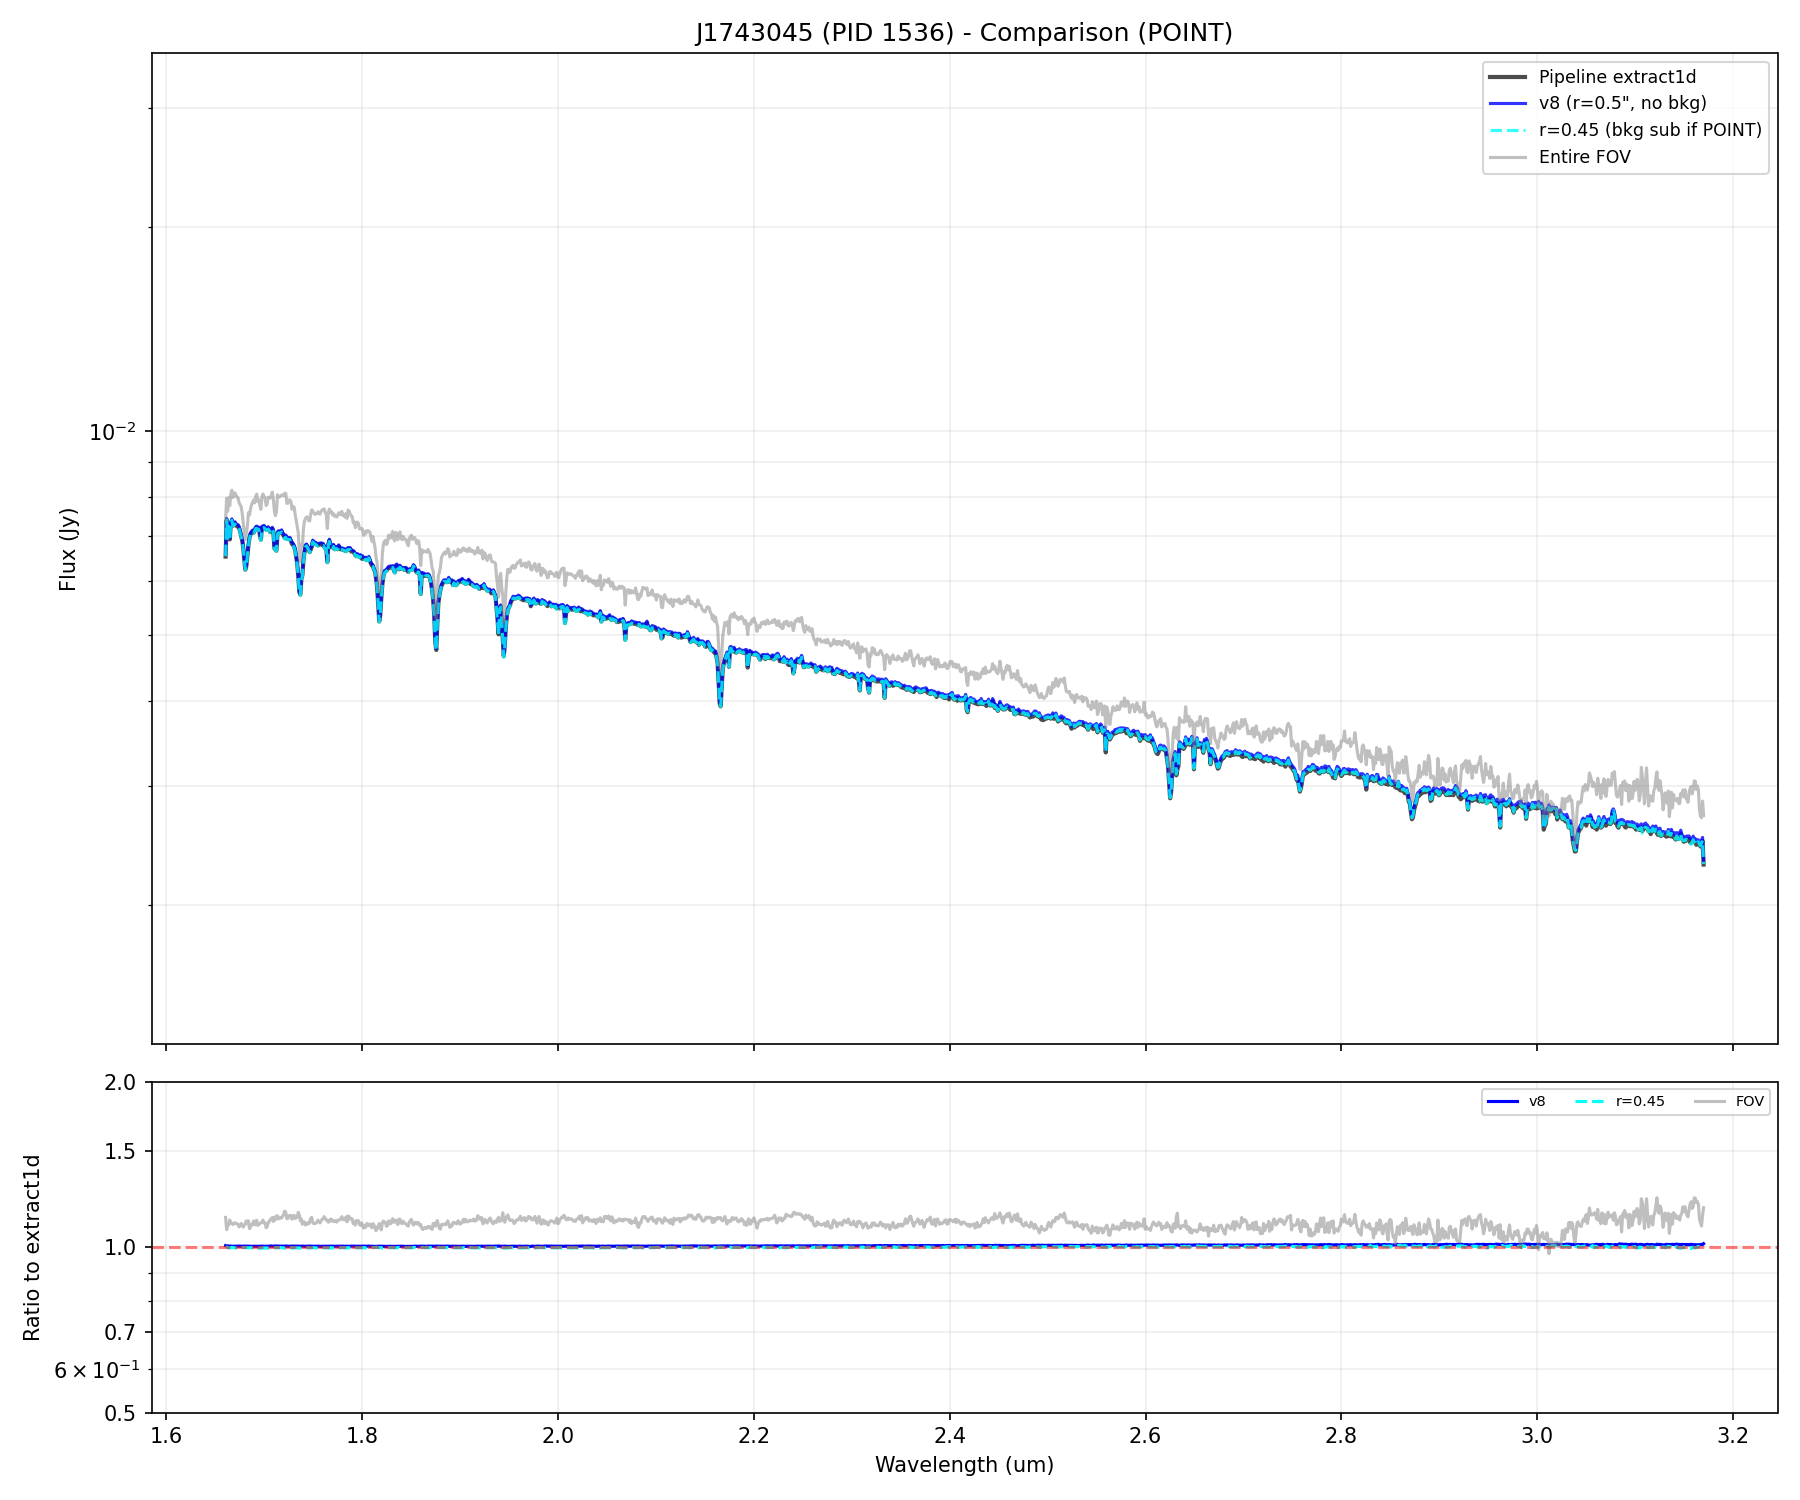
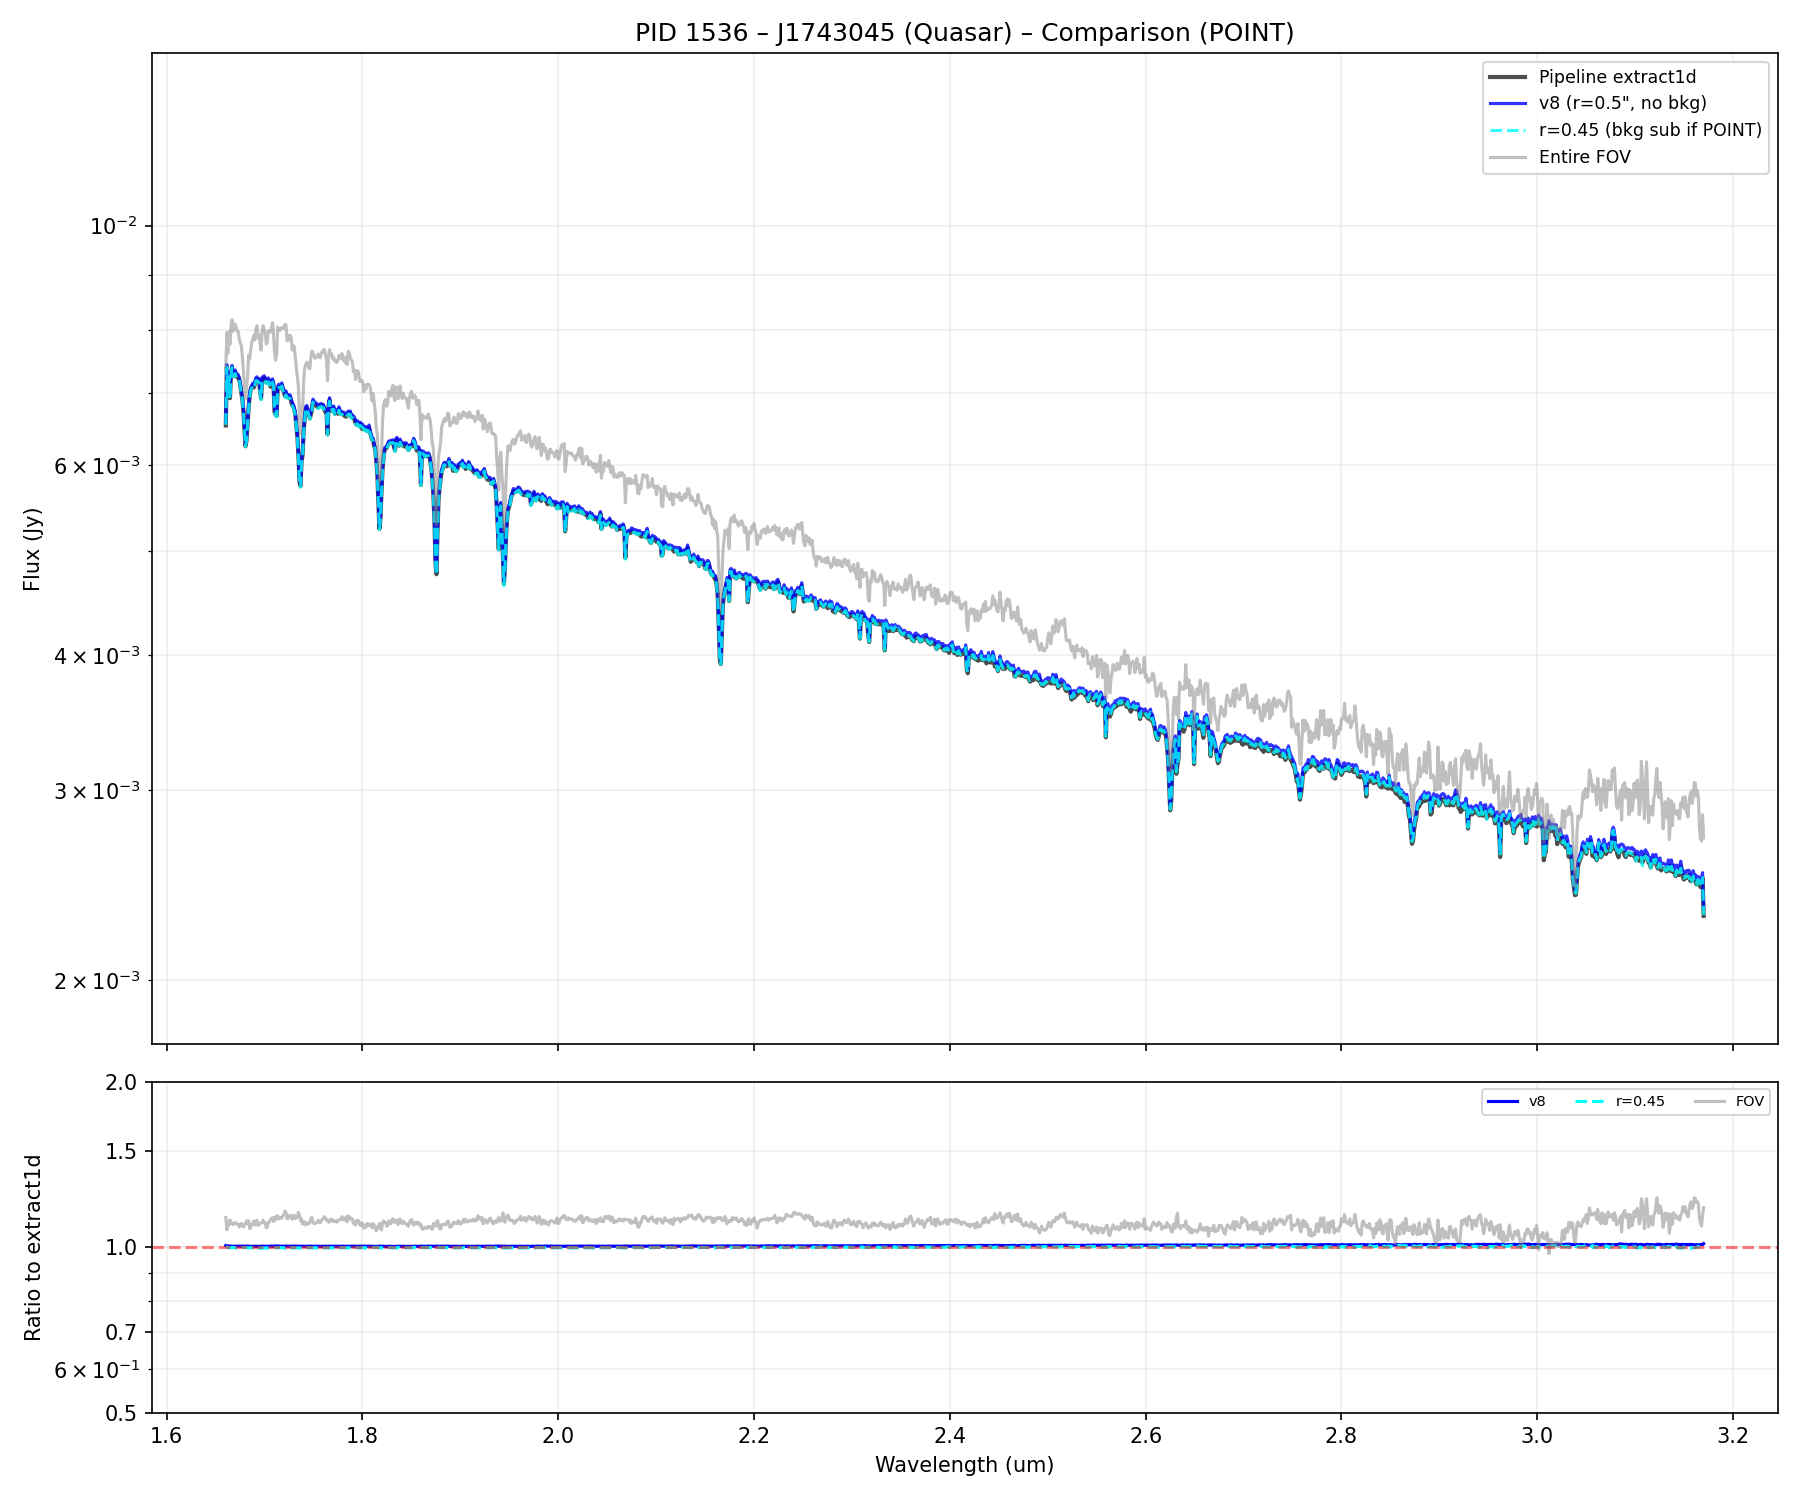
Restructured IFU baseline report with target descriptions and tightened scaling (dual-centering diagnostic).

diff --git a/reports/v8/scripts/plot_ifu_v8_full_spectra.py b/reports/v8/scripts/plot_ifu_v8_full_spectra.py
@@ -43,6 +43,19 @@ def load_calspec_jy(fname):
     fnu = flam * wl_a**2 / C_ANG_S * 1e23
     return interp1d(wl_a / 1e4, fnu, bounds_error=False, fill_value=np.nan)
 
+def load_coeffs(grating):
+    fits_path = f'{COEFFS_DIR}/calib_v7_ifu_{grating.lower()}_all.fits'
+    if not os.path.exists(fits_path): return None, None, None
+    with fits.open(fits_path) as h:
+        d = h[1].data
+        wl, k, a, b = d['WAVELENGTH'], d['K'], d['ALPHA'], d['BETA']
+        k = np.where(np.isfinite(k), k, 1.0)
+        a = np.where(np.isfinite(a), a, 0.0)
+        b = np.where(np.isfinite(b), b, 0.0)
+        return interp1d(wl, k, bounds_error=False, fill_value=1.0), \
+               interp1d(wl, a, bounds_error=False, fill_value=0.0), \
+               interp1d(wl, b, bounds_error=False, fill_value=0.0)
+
 def extract_05_radius(s3d_file):
     try:
         with fits.open(s3d_file) as hdul:
@@ -73,8 +86,27 @@ def plot_full_spectra(target):
     fig, ax = plt.subplots(figsize=(18, 9))
     fig.suptitle(f'{name} — PID {pid} — IFU wavext v8', fontsize=16)
 
+    # Set base Y-axis to log early
+    ax.set_yscale('log')
+
+    # Preliminary Y-limits based on truth model
+    y_min_target, y_max_target = 1e-3, 10.0 # Wide defaults
+    if f_ref:
+        w_range_pre = np.linspace(0.6, 5.6, 1000)
+        f_truth_pre = f_ref(w_range_pre)
+        f_mask_pre = f_truth_pre[np.isfinite(f_truth_pre) & (f_truth_pre > 0)]
+        if len(f_mask_pre) > 0:
+            y_min_target = np.nanmin(f_mask_pre) * 0.5
+            y_max_target = np.nanmax(f_mask_pre) * 1.5
+            ax.set_ylim(y_min_target, y_max_target)
+
     plotted_labels = set()
     gratings = ['G140M', 'G235M', 'G395M']
+    
+    coeffs = {
+        'G140M': load_coeffs('G140M'),
+        'G235M': load_coeffs('G235M'),
+    }
 
     for g_name in gratings:
         files = glob.glob(f"{target['dir']}/*{g_name.lower()}*x1d.fits")
@@ -115,6 +147,31 @@ def plot_full_spectra(target):
             ax.plot(w, f_val, '.', markersize=1, color=base_color, alpha=0.6, zorder=2)
             ax.plot(w, f_val, color=base_color, lw=0.5, alpha=0.2, zorder=2)
         
+        # Correction logic
+        if g_name in ['G140M', 'G235M'] and f_ref:
+            ki, ai, bi = coeffs[g_name]
+            if ki is not None:
+                lo = 1.90 if g_name == 'G140M' else 3.15 
+                mask = w >= lo
+                if mask.any():
+                    w_e, f_e = w[mask], f_val[mask]
+                    f_c2, f_c3 = f_ref(w_e/2), f_ref(w_e/3)
+                    f_c2 = np.where(np.isfinite(f_c2), f_c2, 0)
+                    f_c3 = np.where(np.isfinite(f_c3), f_c3, 0)
+                    k_vals, a_vals, b_vals = ki(w_e), ai(w_e), bi(w_e)
+                    f_corr = (f_e - a_vals*f_c2 - b_vals*f_c3) / k_vals
+                    
+                    # Safety clipping to established Y-axis limits
+                    f_e_fill = np.clip(f_e, y_min_target, y_max_target * 10)
+                    f_corr_fill = np.clip(f_corr, y_min_target, y_max_target * 10)
+
+                    ax.plot(w_e, f_corr, color='magenta', lw=0.5, alpha=0.9, zorder=10)
+                    ax.fill_between(w_e, f_e_fill, f_corr_fill, color='magenta', alpha=0.1, zorder=5)
+                    if f"Rec {g_name}" not in plotted_labels:
+                        mid_e = len(w_e) // 2
+                        ax.text(w_e[mid_e], f_corr[mid_e] * 2.5, f"{g_name} Corr", color='magenta', fontsize=14, ha='center', weight='bold')
+                        plotted_labels.add(f"Rec {g_name}")
+        
         # Add Label at Mid-point
         if g_name not in plotted_labels and len(w) > 50:
             mid_idx = len(w) // 2
@@ -139,14 +196,10 @@ def plot_full_spectra(target):
         ax.text(3.7, f_ref(3.7/3) * 1.1, '3rd order (λ/3)', color='0.70', fontsize=14, 
                 alpha=0.7, weight='bold', zorder=20)
 
-    ax.set_yscale('log')
     ax.set_xlim(0.6, 5.6)
     
-    if f_ref:
-        f_mask = f_truth[np.isfinite(f_truth) & (f_truth > 0)]
-        if len(f_mask) > 0:
-            ax.set_ylim(np.min(f_mask)*0.5, np.max(f_mask)*3.0)
-    else:
+    # Auto-scale Y only if no truth was provided
+    if not f_ref:
         ax.autoscale(axis='y', tight=False)
 
     ax.set_xlabel('Wavelength [µm]', fontsize=14)

diff --git a/reports/v8/ifu_v8/extractions_all_ifu_v8/extractions_all_ifu_v8.py b/reports/v8/ifu_v8/extractions_all_ifu_v8/extractions_all_ifu_v8.py
@@ -18,12 +18,12 @@ PIPE_BKG_IN = 1.0
 PIPE_BKG_OUT = 1.2
 
 TARGETS = [
-    {'pid': '1536', 'name': 'J1743045', 's3d': f'{BASE_IFU}/PID1536_J1743045/stage3/f170lp_g235m-f170lp_s3d.fits'},
-    {'pid': '1537', 'name': 'G191-B2B', 's3d': f'{BASE_IFU}/PID1537_G191-B2B/stage3/f170lp_g235m-f170lp_s3d.fits'},
-    {'pid': '1538', 'name': 'P330E', 's3d': f'{BASE_IFU}/PID1538_P330E/stage3/f170lp_g235m-f170lp_s3d.fits'},
-    {'pid': '2186', 'name': 'UGC-5101', 's3d': f'{BASE_FS}/PID2186_UGC-5101/stage3_ext/g235m_f170lp_g235m-f170lp_s3d.fits', 'is_science': True},
-    {'pid': '2654', 'name': 'SDSSJ0841', 's3d': f'{BASE_FS}/PID2654_SDSSJ0841/stage3_ext/g140m_f100lp_g140m-f100lp_s3d.fits', 'is_science': True},
-    {'pid': '6645', 'name': 'P330E-C3', 's3d': f'{BASE_IFU}/PID6645_P330E-C3/stage3/f170lp_g235m-f170lp_s3d.fits'}
+    {'pid': '1536', 'name': 'J1743045', 'desc': 'Quasar', 's3d': f'{BASE_IFU}/PID1536_J1743045/stage3/f170lp_g235m-f170lp_s3d.fits'},
+    {'pid': '1537', 'name': 'G191-B2B', 'desc': 'DA White Dwarf', 's3d': f'{BASE_IFU}/PID1537_G191-B2B/stage3/f170lp_g235m-f170lp_s3d.fits'},
+    {'pid': '1538', 'name': 'P330E', 'desc': 'G-type Solar Analog', 's3d': f'{BASE_IFU}/PID1538_P330E/stage3/f170lp_g235m-f170lp_s3d.fits'},
+    {'pid': '2186', 'name': 'UGC-5101', 'desc': 'ULIRG', 's3d': f'{BASE_FS}/PID2186_UGC-5101/stage3_ext/g235m_f170lp_g235m-f170lp_s3d.fits', 'is_science': True},
+    {'pid': '2654', 'name': 'SDSSJ0841', 'desc': 'Quasar', 's3d': f'{BASE_FS}/PID2654_SDSSJ0841/stage3_ext/g140m_f100lp_g140m-f100lp_s3d.fits', 'is_science': True},
+    {'pid': '6645', 'name': 'P330E-C3', 'desc': 'Solar Analog (Offset Visit)', 's3d': f'{BASE_IFU}/PID6645_P330E-C3/stage3/f170lp_g235m-f170lp_s3d.fits'}
 ]
 
 def perform_extractions(target):
@@ -134,7 +134,7 @@ def plot_target(target, results):
     ax1.plot(wl, results['spec_fov'], label='Entire FOV', alpha=0.5, color='gray')
     
     ax1.set_yscale('log')
-    ax1.set_title(f"{target['name']} (PID {target['pid']}) - Comparison ({results['srctype']})")
+    ax1.set_title(f"PID {target['pid']} – {target['name']} ({target['desc']}) – Comparison ({results['srctype']})")
     ax1.set_ylabel("Flux (Jy)")
     ax1.legend(loc='upper right', fontsize='small')
     ax1.grid(True, which='both', alpha=0.2)
@@ -146,9 +146,13 @@ def plot_target(target, results):
     
     if np.any(valid_all):
         all_fluxes = np.concatenate([results['spec_05'], results['spec_x1d']])
-        y_min = np.percentile(all_fluxes[valid_all], 1) * 0.5
-        y_max = np.percentile(all_fluxes[valid_all], 99) * 5.0
+        y_min = np.percentile(all_fluxes[valid_all], 1) * 0.7
+        y_max = np.percentile(all_fluxes[valid_all], 99) * 2.0
         ax1.set_ylim(y_min, y_max)
+    
+    # Correction for P330E-C3 huge offset visualization
+    if target['pid'] == '6645':
+        ax1.set_ylim(1e-5, 0.1)
     
     f_old = interp1d(results['wl_old'], results['spec_x1d'], bounds_error=False, fill_value=np.nan)
     ref_flux = f_old(wl)
@@ -223,6 +227,7 @@ def run_all():
             summary_data.append({
                 'pid': target['pid'],
                 'name': target['name'],
+                'desc': target['desc'],
                 'srctype': results['srctype'],
                 'med_flux_v8': med_05,
                 'ratio_v8_to_x1d': ratio_05
@@ -246,12 +251,12 @@ def run_all():
         f.write("\n\n")
         
         for target in TARGETS:
-            f.write(f"## {target['name']} (PID {target['pid']})\n\n")
-            f.write(f"### Spectra\n")
-            f.write(f"![Comparison](extraction_all_{target['pid']}.png)\n\n")
+            f.write(f"## PID {target['pid']} – {target['name']} ({target['desc']})\n\n")
             f.write(f"### Slices & Apertures\n")
             f.write(f"**Red Solid**: v8 (peak-centered, 0.5\") | **Cyan Dashed**: Pipeline (pointing-centered, 0.45\")\n\n")
             f.write(f"![Slices](slices_{target['pid']}.png)\n\n")
+            f.write(f"### Spectra\n")
+            f.write(f"![Comparison](extraction_all_{target['pid']}.png)\n\n")
             f.write("---\n\n")
 
 if __name__ == "__main__":

diff --git a/reports/v8/scripts/plot_fs_v8_full_spectra.py b/reports/v8/scripts/plot_fs_v8_full_spectra.py
@@ -131,10 +131,11 @@ def plot_full_spectra(pid, src):
                     
                     f_corr = (f_e - a_vals*f_c2 - b_vals*f_c3) / k_vals
                     
-                    ax.plot(w_e, f_corr, color='magenta', lw=1.5, alpha=0.9, zorder=10)
+                    ax.plot(w_e, f_corr, color='magenta', lw=0.5, alpha=0.9, zorder=10)
+                    ax.fill_between(w_e, f_e, f_corr, color='magenta', alpha=0.1, zorder=5)
                     if f"Rec {grating}" not in plotted_labels:
                         mid_e = len(w_e) // 2
-                        ax.text(w_e[mid_e], f_corr[mid_e] * 2.5, f"{grating} v8 Corr", color='magenta', fontsize=14, ha='center', weight='bold')
+                        ax.text(w_e[mid_e], f_corr[mid_e] * 2.5, f"{grating} Corr", color='magenta', fontsize=14, ha='center', weight='bold')
                         plotted_labels.add(f"Rec {grating}")
 
     # Truth L3 (MAST) if available

diff --git a/reports/v8/ifu_v8/extractions_all_ifu_v8/REPORT_all_extractions.md b/reports/v8/ifu_v8/extractions_all_ifu_v8/REPORT_all_extractions.md
@@ -18,75 +18,75 @@ Comparison of 4 extraction methods across all v8 catalog datasets:
 | 6645 | P330E-C3 | POINT | 0.020602 | 139.464 |
 
 
-## J1743045 (PID 1536)
-
-### Spectra
-![Comparison](extraction_all_1536.png)
+## PID 1536 – J1743045 (Quasar)
 
 ### Slices & Apertures
 **Red Solid**: v8 (peak-centered, 0.5") | **Cyan Dashed**: Pipeline (pointing-centered, 0.45")
 
 ![Slices](slices_1536.png)
 
+### Spectra
+![Comparison](extraction_all_1536.png)
+
 ---
 
-## G191-B2B (PID 1537)
-
-### Spectra
-![Comparison](extraction_all_1537.png)
+## PID 1537 – G191-B2B (DA White Dwarf)
 
 ### Slices & Apertures
 **Red Solid**: v8 (peak-centered, 0.5") | **Cyan Dashed**: Pipeline (pointing-centered, 0.45")
 
 ![Slices](slices_1537.png)
 
+### Spectra
+![Comparison](extraction_all_1537.png)
+
 ---
 
-## P330E (PID 1538)
-
-### Spectra
-![Comparison](extraction_all_1538.png)
+## PID 1538 – P330E (G-type Solar Analog)
 
 ### Slices & Apertures
 **Red Solid**: v8 (peak-centered, 0.5") | **Cyan Dashed**: Pipeline (pointing-centered, 0.45")
 
 ![Slices](slices_1538.png)
 
+### Spectra
+![Comparison](extraction_all_1538.png)
+
 ---
 
-## UGC-5101 (PID 2186)
-
-### Spectra
-![Comparison](extraction_all_2186.png)
+## PID 2186 – UGC-5101 (ULIRG)
 
 ### Slices & Apertures
 **Red Solid**: v8 (peak-centered, 0.5") | **Cyan Dashed**: Pipeline (pointing-centered, 0.45")
 
 ![Slices](slices_2186.png)
 
+### Spectra
+![Comparison](extraction_all_2186.png)
+
 ---
 
-## SDSSJ0841 (PID 2654)
-
-### Spectra
-![Comparison](extraction_all_2654.png)
+## PID 2654 – SDSSJ0841 (Quasar)
 
 ### Slices & Apertures
 **Red Solid**: v8 (peak-centered, 0.5") | **Cyan Dashed**: Pipeline (pointing-centered, 0.45")
 
 ![Slices](slices_2654.png)
 
+### Spectra
+![Comparison](extraction_all_2654.png)
+
 ---
 
-## P330E-C3 (PID 6645)
-
-### Spectra
-![Comparison](extraction_all_6645.png)
+## PID 6645 – P330E-C3 (Solar Analog (Offset Visit))
 
 ### Slices & Apertures
 **Red Solid**: v8 (peak-centered, 0.5") | **Cyan Dashed**: Pipeline (pointing-centered, 0.45")
 
 ![Slices](slices_6645.png)
+
+### Spectra
+![Comparison](extraction_all_6645.png)
 
 ---
 
